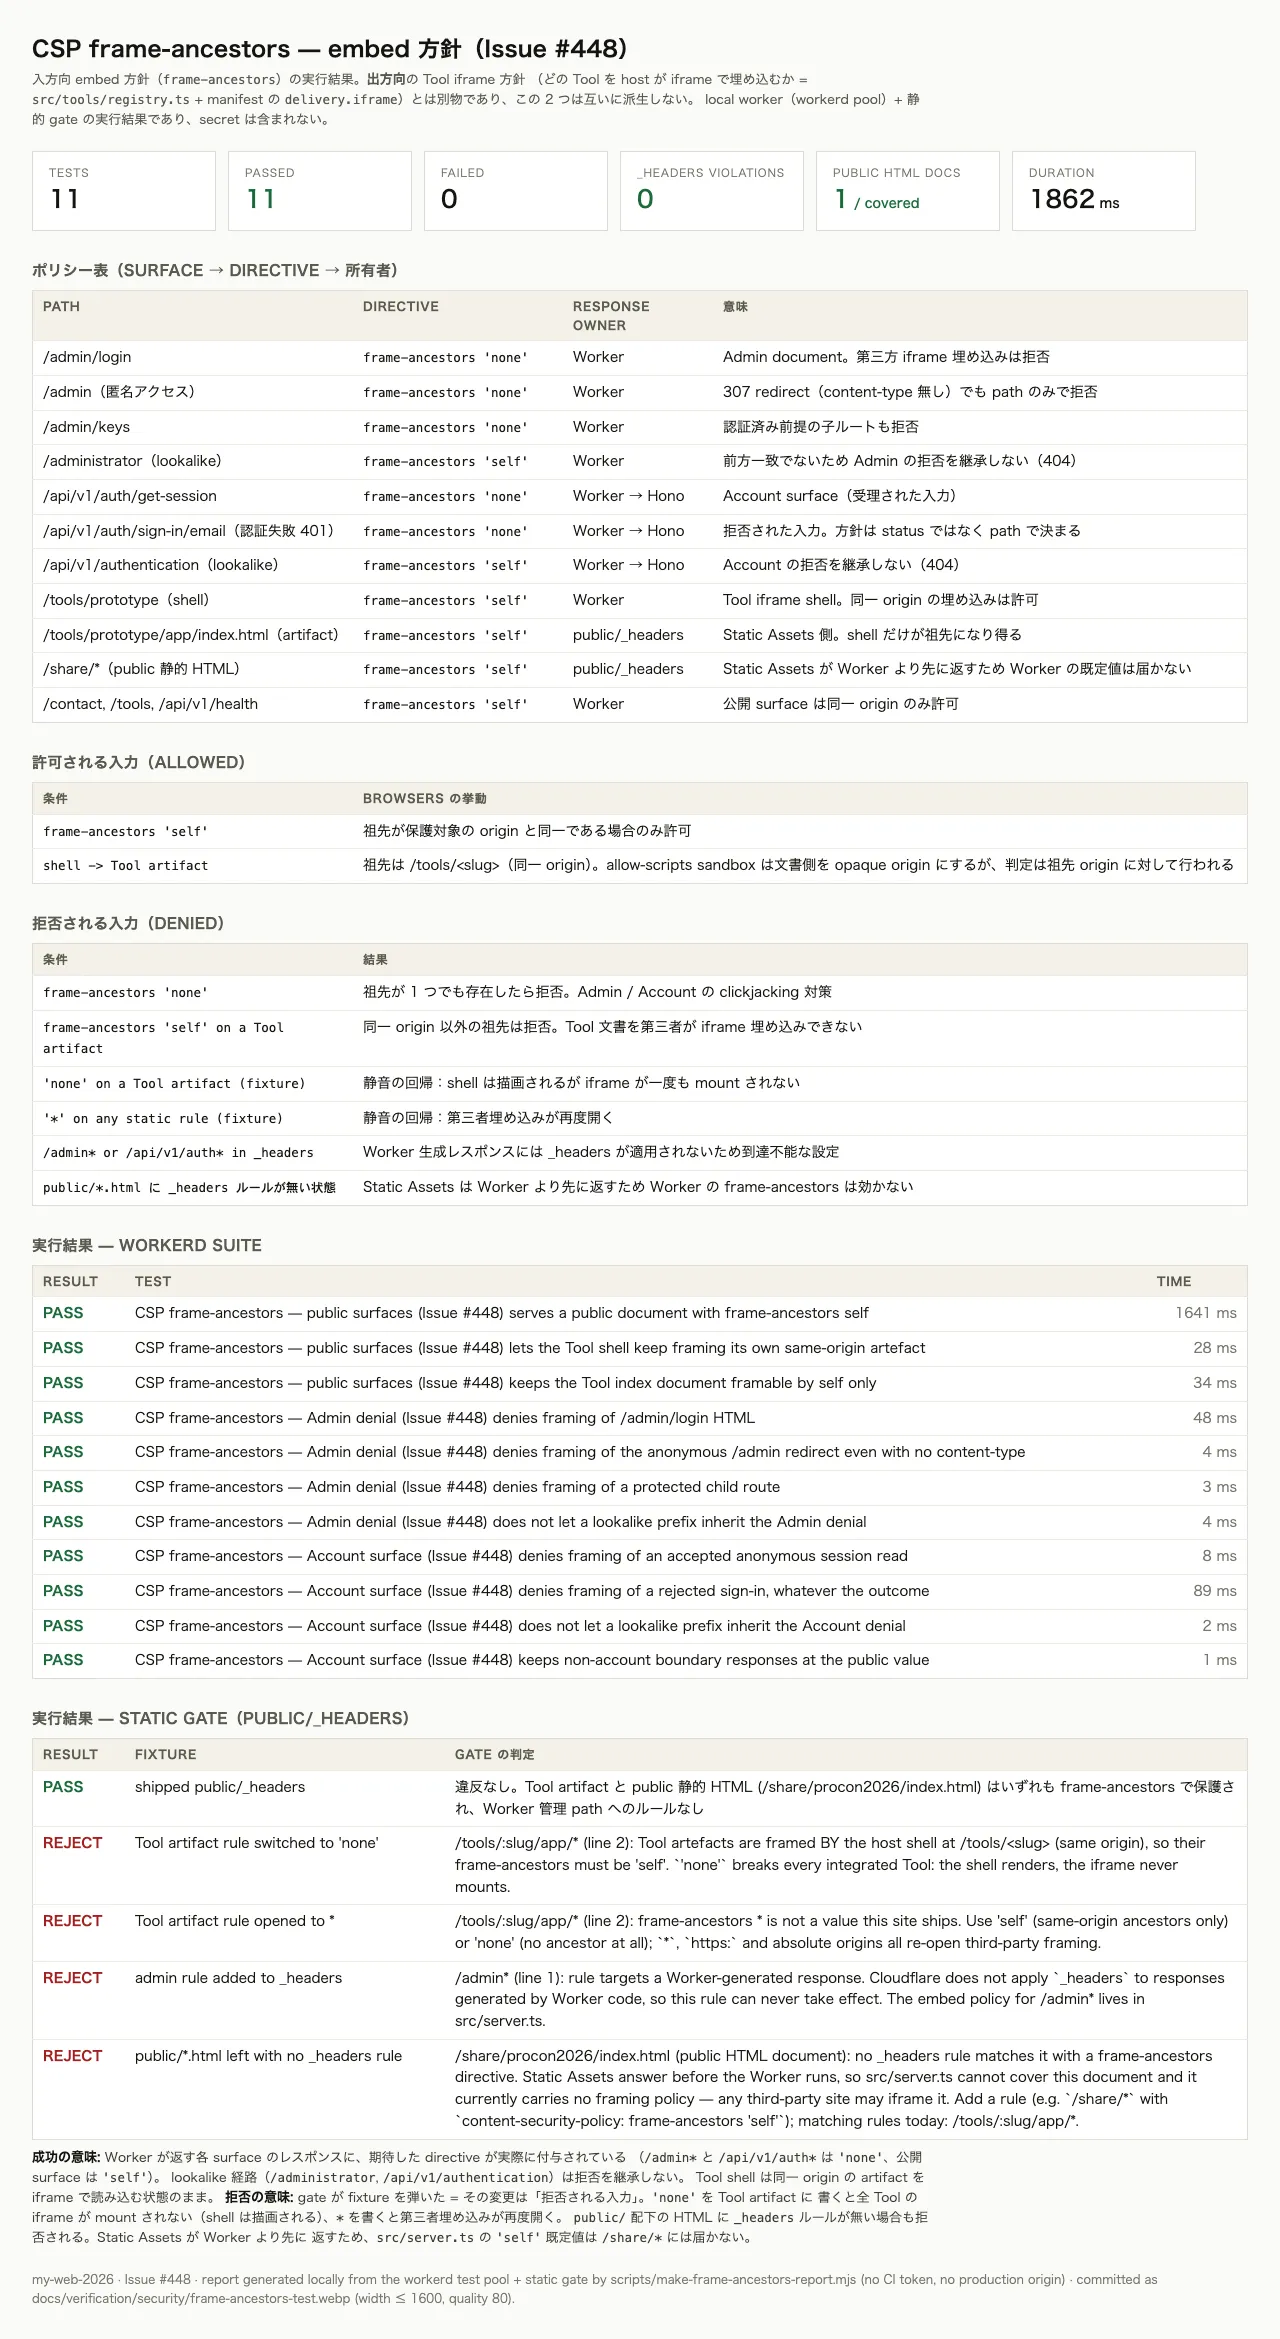
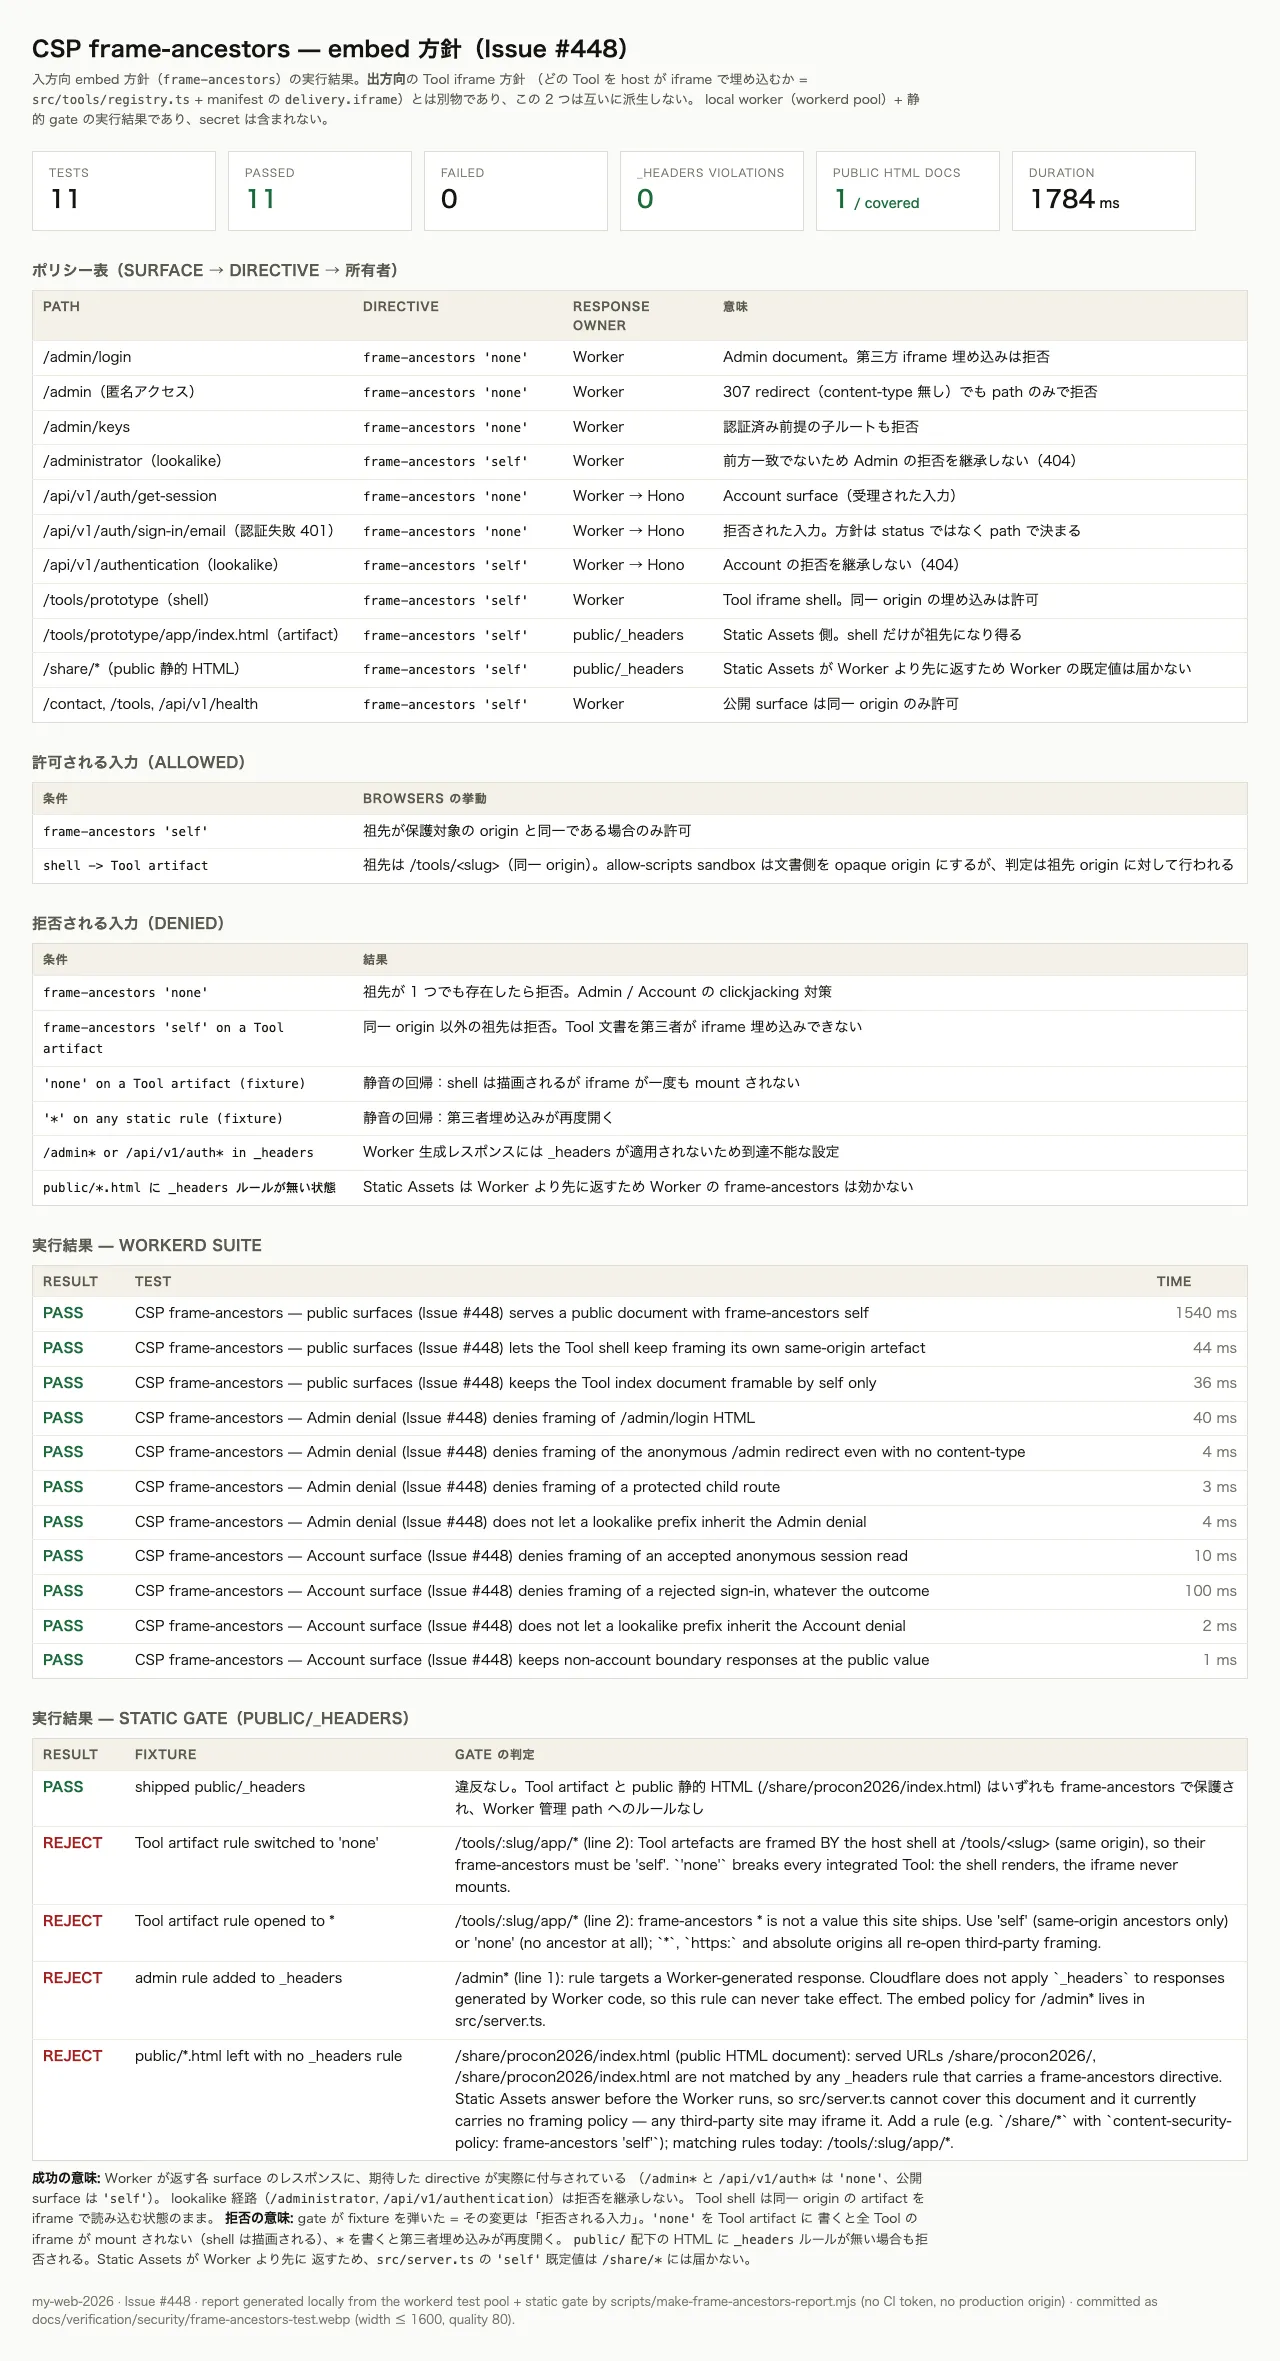
fix(gates): check wide _headers rules that reach a Tool artefact (#448)

diff --git a/docs/security.md b/docs/security.md
@@ -427,7 +427,7 @@ omission.
 | Gate | What it proves | Where |
 | --- | --- | --- |
 | Runtime suite | Real headers through `SELF.fetch` for every Worker response: `/admin*` and `/api/v1/auth/*` are `'none'`, public surfaces are `'self'`, the anonymous `/admin` redirect carries the header with no content-type, lookalike paths do not inherit a denial, and `/tools/prototype` still mounts its same-origin artefact. | `test/integration/frame-ancestors.test.ts` (workerd pool) |
-| Static gate | The Static Assets half, which no runtime test can observe: every `_headers` rule under `/tools` carries `frame-ancestors 'self'`, every served URL of every committed public HTML document under `public/` (directory and explicit `index.html`) is matched by a rule that carries one, no shipped value is permissive (`*`, `https:`, absolute origins), no rule targets a Worker-owned path, and the Worker half still exists. | `scripts/check-frame-ancestors-policy.mjs`, wired via `scripts/check-frame-ancestors-policy.test.mjs` |
+| Static gate | The Static Assets half, which no runtime test can observe: every `_headers` rule under `/tools` carries `frame-ancestors 'self'`; every rule that is **not** written under `/tools` but whose pattern still matches a Tool delivery URL (`/*`, `/tools*`, …) carries `'self'` too, because Static Assets applies every matching rule and comma-joins same-named headers, so a wide `'none'` would deny the host shell's iframe even though the rule never mentions `/tools`; every served URL of every committed public HTML document under `public/` (directory and explicit `index.html`) is matched by a rule that carries one; no shipped value is permissive (`*`, `https:`, absolute origins); no rule targets a Worker-owned path; and the Worker half still exists. | `scripts/check-frame-ancestors-policy.mjs`, wired via `scripts/check-frame-ancestors-policy.test.mjs` |
 
 Run the static gate on its own with `pnpm run security:embed:check`
 (`node scripts/check-frame-ancestors-policy.mjs`). Exit 1 means a
